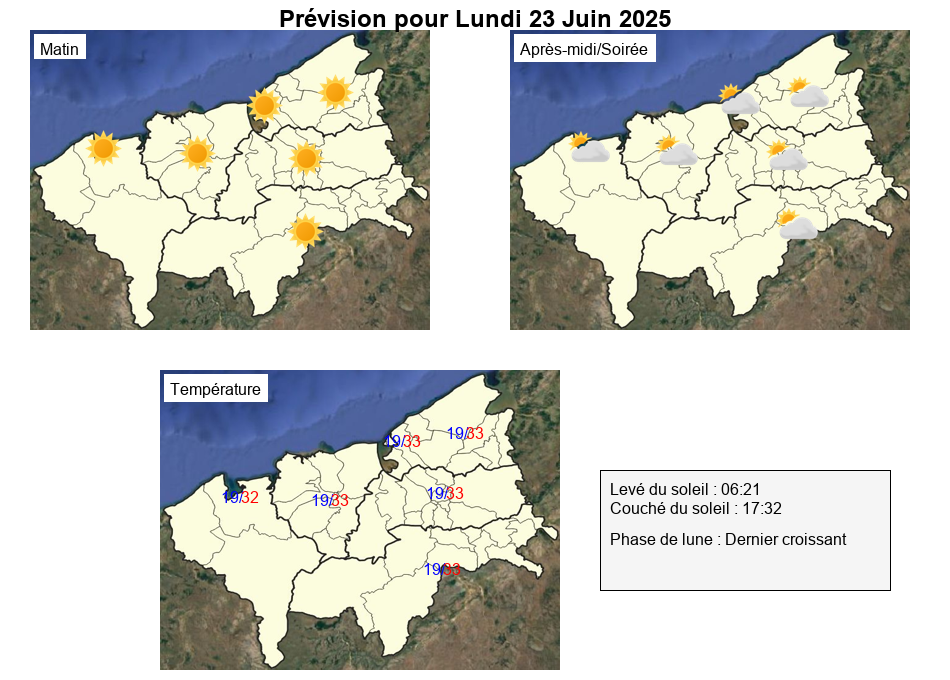
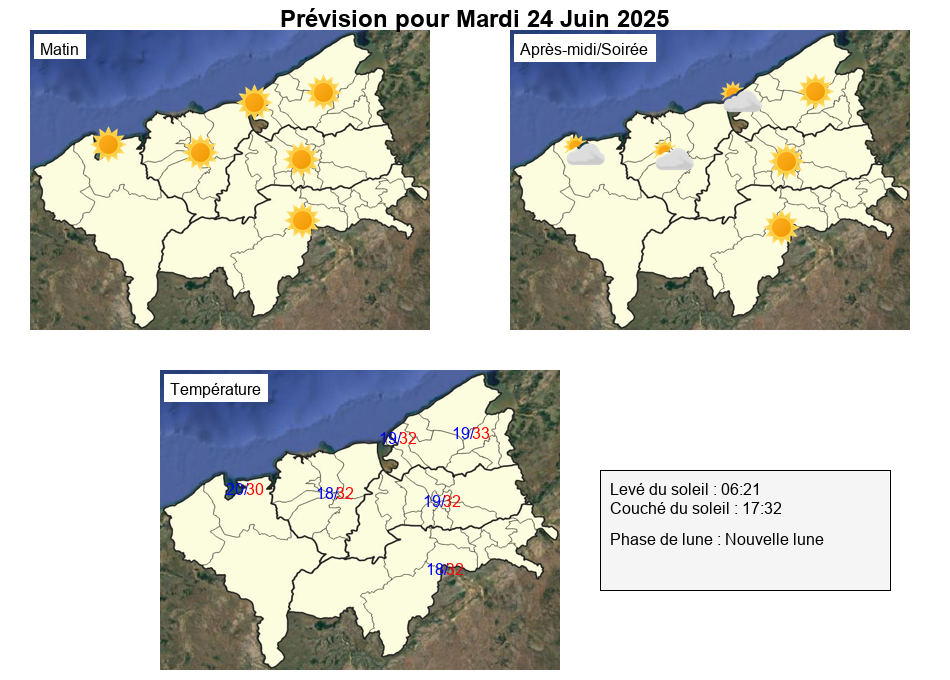
Forecast on 24/06/2025

diff --git a/script.js b/script.js
@@ -8,20 +8,20 @@ const messages = [
     Restez informé en cas d’évolution de la situation.`,
 
     ` **Prévisions – Jour 1 (Aujourd’hui)**  
-    Temps ensoleillé toute la matinée et peu nuageux l'après-midi et le soir.
+    Temps ensoleillé toute la matinée et peu nuageux l'après-midi et le soir à l'Ouest de la Région.
     Vents : Vents légers à modéré de secteur E
     Températures minimales : avoisinant les 19 °C
     Températures maximales : avoisinant les 33 °C.`,
 
     ` **Prévisions – Jour 2 (Demain)**  
-    Temps ensoleillé le matin, devenant partiellement nuageux l'après-midi et le soir à l'Ouest de la région.
-    Vents : Vents légers du secteur E
+    Temps ensoleillé le matin, devenant partiellement nuageux l'après-midi et le soir.
+    Vents : Vents modéré du secteur ESE
     Températures minimales : entre 18 et 20 °C
     Températures maximales : entre 30 et 33 °C.`,
 
     ` **Prévisions – Jour 3 (Après-demain)**  
     Temps ensoleillé le matin, nuageux l'après-midi et le soir.
-    Vents : Vents légers à modéré de secteur E
+    Vents : Vents modéré de secteur E
     Températures minimales : entre 19 et 20 °C
     Températures maximales : entre 32 et 33 °C.`
 ];
